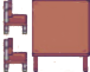
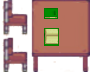
Add controls button in start menu and more decorations

Changed region(s): [[0.4889, 0.3889, 0.6667, 0.6389], [0.4889, 0.1111, 0.6444, 0.2778]]

diff --git a/t9am-Green/menu.cpp b/t9am-Green/menu.cpp
@@ -2,7 +2,8 @@
 
 Menu::Menu() {
 	playButton = { (float)GetScreenWidth() / 2 - 75,(float)GetScreenHeight() / 2 - 25, 150.f, 50.f };
-	exitButton = { (float)GetScreenWidth() / 2 - 75,(float)GetScreenHeight() / 2 + 2 * playButton.height - 25, 150.f, 50.f };
+	mainMenuControlsButton = { (float)GetScreenWidth() / 2 - 125, (float)GetScreenHeight() / 2 + 2 * playButton.height - 25, 250.f, 50.f };
+	exitButton = { (float)GetScreenWidth() / 2 - 75, (float)GetScreenHeight() / 2 + 4 * playButton.height - 25, 150.f, 50.f };
 	interactionMenu = { 100.f, 100.f, 700.f, 300.f };
 	submitButton = { (float)textBox.textbox.x + 25, (float)textBox.textbox.y + 70, 175.f, 60.f };
 	interactionCloseButton = { interactionMenu.x + interactionMenu.width - 150, interactionMenu.y + interactionMenu.height - 60, 140, 50 };
@@ -19,12 +20,14 @@ Menu::Menu() {
 
 // Draws the start menu
 void Menu::Draw() {
-	DrawText("Count the Teacher", (float)GetScreenWidth() / 2 - 150, 40.f, 30, WHITE);
+	DrawText("Count the Teacher", 40, 40, 85, WHITE);
 	ClearBackground(DARKGREEN);
 	DrawRectangleRec(playButton, GREEN);
-	DrawTextEx(GetFontDefault(), "Play", { playButton.x + MeasureTextEx(GetFontDefault(), "Play", 20, 5).x / 2, playButton.y }, 45, 5, WHITE);
+	DrawTextEx(GetFontDefault(), "Play", { playButton.x + MeasureTextEx(GetFontDefault(), "Play", 20, 5).x / 2, playButton.y + 5 }, 45, 5, WHITE);
+	DrawRectangleRec(mainMenuControlsButton, ORANGE);
+	DrawTextEx(GetFontDefault(), "Controls", { mainMenuControlsButton.x + MeasureTextEx(GetFontDefault(), "Controls", 30, 5).x / 4 - 10, mainMenuControlsButton.y + 5 }, 45, 5, WHITE);
 	DrawRectangleRec(exitButton, RED);
-	DrawTextEx(GetFontDefault(), "Exit", { exitButton.x + MeasureTextEx(GetFontDefault(), "Exit", 30, 5).x / 2, exitButton.y }, 45, 5, WHITE);
+	DrawTextEx(GetFontDefault(), "Exit", { exitButton.x + MeasureTextEx(GetFontDefault(), "Exit", 30, 5).x / 2, exitButton.y + 5 }, 45, 5, WHITE);
 }
 
 // Draws the interaction menu
@@ -35,10 +38,10 @@ void Menu::DrawInteractionMenu() {
 	textBox.Draw();
 	DrawRectangleRec(submitButton, GREEN);
 	DrawRectangleLinesEx(submitButton, 4, DARKGREEN);
-	DrawText("Check", submitButton.x + 10, submitButton.y + 5, 50, WHITE);
+	DrawText("Check", (int)submitButton.x + 10, (int)submitButton.y + 5, 50, WHITE);
 	DrawRectangleRec(interactionCloseButton, RED);
 	DrawRectangleLinesEx(interactionCloseButton, 3, MAROON);
-	DrawText("Close", interactionCloseButton.x + 10, interactionCloseButton.y + 5, 40, WHITE);
+	DrawText("Close", (int)interactionCloseButton.x + 10, (int)interactionCloseButton.y + 5, 40, WHITE);
 }
 
 // Returns true when we click on the play button
@@ -47,6 +50,11 @@ bool Menu::CheckIfPlayIsClicked() {
 		return 1;
 	else
 		return 0;
+}
+
+bool Menu::CheckIfControlsIsClicked() {
+	if (CheckCollisionPointRec(GetMousePosition(), mainMenuControlsButton) and IsMouseButtonPressed(MOUSE_BUTTON_LEFT))
+		return 1;
 }
 
 // Returns true when we click on the exit button
@@ -118,48 +126,48 @@ bool Menu::CheckIfExitControlsClicked() {
 void Menu::ShowRandomProblem(map<string, string> RandomProblem) {
 	map<string, string>::iterator it = RandomProblem.begin();
 
-	DrawText(it->first.c_str(), textBox.textbox.x - 20, textBox.textbox.y - 50, 30, WHITE);
+	DrawText(it->first.c_str(), (int)textBox.textbox.x - 20, (int)textBox.textbox.y - 50, 30, WHITE);
 }
 
 void Menu::DrawWinWindow() {
 	DrawRectangleRec(gameWinWindow, GREEN);
 	DrawRectangleLinesEx(gameWinWindow, 10, DARKGREEN);
-	DrawText("YOU WON THE GAME!", GetScreenWidth() / 2.f - 165 , 180, 30, WHITE);
+	DrawText("YOU WON THE GAME!", GetScreenWidth() / 2 - 165 , 180, 30, WHITE);
 	DrawRectangleRec(gameCloseButton, RED);
-	DrawText("Close", (float)gameCloseButton.x + 40, (float)gameCloseButton.y + 8, 40, WHITE);
+	DrawText("Close", (int)gameCloseButton.x + 40, (int)gameCloseButton.y + 8, 40, WHITE);
 }
 
 void Menu::DrawGameOverMenu() {
 	DrawRectangleRec(gameOverMenu, DARKGRAY);
-	DrawText("GAME OVER", GetScreenWidth() / 2.f - 140, 100, 50, RED);
+	DrawText("GAME OVER", GetScreenWidth() / 2 - 140, 100, 50, RED);
 	DrawRectangleLinesEx(gameOverMenu, 4, BLACK);
 	DrawRectangleRec(gameCloseButton, RED);
-	DrawText("Close", (float)gameCloseButton.x + 40, (float)gameCloseButton.y + 8, 40, WHITE);
+	DrawText("Close", (int)gameCloseButton.x + 40, (int)gameCloseButton.y + 8, 40, WHITE);
 }
 //Draws paused menu
 void Menu::DrawPauseMenu() {
 	DrawRectangleRec(pauseMenu, GRAY);
 	DrawRectangleLinesEx(pauseMenu, 4, BLACK);
-	DrawText("Paused", GetScreenWidth() / 2.f - 80, 120, 50, WHITE);
+	DrawText("Paused", GetScreenWidth() / 2 - 80, 120, 50, WHITE);
 	DrawRectangleRec(resumeButton, LIGHTGRAY);
 	DrawRectangleLinesEx(resumeButton, 3, DARKGRAY);
-	DrawText("Resume", resumeButton.x + 7, resumeButton.y + 8, 40, BLACK);
+	DrawText("Resume", (int)resumeButton.x + 7, (int)resumeButton.y + 8, 40, BLACK);
 	DrawRectangleRec(controlsButton, LIGHTGRAY);
 	DrawRectangleLinesEx(controlsButton, 3, DARKGRAY);
-	DrawText("Controls", controlsButton.x + 10, controlsButton.y + 8, 40, BLACK);
+	DrawText("Controls", (int)controlsButton.x + 10, (int)controlsButton.y + 8, 40, BLACK);
 	DrawRectangleRec(exitGamePauseButton, LIGHTGRAY);
 	DrawRectangleLinesEx(exitGamePauseButton, 3, DARKGRAY);
-	DrawText("Exit Game", exitGamePauseButton.x + 10, exitGamePauseButton.y + 8, 40, BLACK);
+	DrawText("Exit Game", (int)exitGamePauseButton.x + 10, (int)exitGamePauseButton.y + 8, 40, BLACK);
 }
 
 void Menu::DrawControls() {
 	DrawRectangleRec(controlsMenu, GRAY);
 	DrawRectangleLinesEx(controlsMenu, 4, BLACK);
-	DrawText("Controls", controlsMenu.width / 2, controlsMenu.y + 10, 40, WHITE);
-	DrawText("WASD - Move", controlsMenu.x + 10, controlsMenu.y + 70, 40, BLACK);
-	DrawText("E - Interact", controlsMenu.x + 10, controlsMenu.y + 110, 40, BLACK);
-	DrawText("Q - Pause", controlsMenu.x + 10, controlsMenu.y + 150, 40, BLACK);
-	DrawText("Enter - Check Question", controlsMenu.x + 10, controlsMenu.y + 190, 40, BLACK);
+	DrawText("Controls", (int)controlsMenu.width / 2, (int)controlsMenu.y + 10, 40, WHITE);
+	DrawText("WASD - Move", (int)controlsMenu.x + 10, (int)controlsMenu.y + 70, 40, BLACK);
+	DrawText("E - Interact", (int)controlsMenu.x + 10, (int)controlsMenu.y + 110, 40, BLACK);
+	DrawText("Q - Pause", (int)controlsMenu.x + 10, (int)controlsMenu.y + 150, 40, BLACK);
+	DrawText("Enter - Check Question", (int)controlsMenu.x + 10, (int)controlsMenu.y + 190, 40, BLACK);
 	DrawRectangleRec(exitControlsMenuButton, RED);
-	DrawText("Back", exitControlsMenuButton.x + 10, exitControlsMenuButton.y + 8, 40, BLACK);
+	DrawText("Back", (int)exitControlsMenuButton.x + 10, (int)exitControlsMenuButton.y + 8, 40, BLACK);
 }

diff --git a/t9am-Green/character.cpp b/t9am-Green/character.cpp
@@ -13,7 +13,6 @@ Character::Character() {
 	frame = 0;
 	// The character's initial health
 	health = 3;
-
 }
 
 // Draws the updated position of the character
@@ -35,17 +34,15 @@ void Character::Draw() {
 	}
 }
 // These x and y variables will be equal to the x and y coordinates of the hitbox of the character after one step.
-void Character::Update(float x, float y) { 
-	position.x = x;						   
-	position.y = y;						   
-										   
+void Character::Update(float NewX, float NewY) { 
+	position.x = NewX;
+	position.y = NewY;			   
 
 //Moving right
 	if (IsKeyDown(KEY_D)) { 
 		frame++;
 		source = { 0.f, 0.f, (float)movingRight.width / 4.f, (float)movingRight.height };
 		source.x = (float)frame * source.width;
-		position.x;
 		WaitTime(updateTime);
 	}
 	// Moving left
@@ -53,7 +50,6 @@ void Character::Update(float x, float y) {
 		frame++;
 		source = { 0.f, 0.f, (float)movingLeft.width / 4.f, (float)movingLeft.height };
 		source.x = (float)frame * source.width;
-		position.x;
 		WaitTime(updateTime);
 	}
 	// Moving up
@@ -61,7 +57,6 @@ void Character::Update(float x, float y) {
 		frame++;
 		source = { 0.f, 0.f, (float)movingUp.width / 4.f, (float)movingUp.height };
 		source.x = (float)frame * source.width;
-		position.y;
 		WaitTime(updateTime);
 	}
 	// Moving down
@@ -69,7 +64,6 @@ void Character::Update(float x, float y) {
 		frame++;
 		source = { 0.f, 0.f, (float)movingDown.width / 4.f, (float)movingDown.height };
 		source.x = (float)frame * source.width;
-		position.y;
 		WaitTime(updateTime);
 	}
 	// Not moving

diff --git a/t9am-Green/MathProblems.cpp b/t9am-Green/MathProblems.cpp
@@ -10,13 +10,10 @@ MathProblems::MathProblems() {
 	Level1["54 + 32 = ?"] = "86";
 	Level1["37 + 82 = ?"] = "119";
 	Level1["34 + 56 = ?"] = "90";
-	Level1["78 + 29 = ?"] = "107";
 	Level1["123 + 87 = ?"] = "210";
-	Level1["245 + 376 = ?"] = "621";
 	Level1["59 + 84 = ?"] = "143";
 	Level1["432 + 218 = ?"] = "650";
 	Level1["67 + 45 = ?"] = "112";
-	Level1["891 + 234 = ?"] = "1125";
 	Level1["308 + 492 = ?"] = "800";
 	Level1["150 + 275 = ?"] = "425";
 
@@ -28,16 +25,12 @@ MathProblems::MathProblems() {
 	Level2["97 - 78 = ?"] = "19";
 	Level2["143 - 57 = ?"] = "86";
 	Level2["120 - 77 = ?"] = "43";
-	Level2["136 - 29 = ?"] = "107";
 	Level2["78 - 34 = ?"] = "44";
 	Level2["125 - 87 = ?"] = "38";
 	Level2["456 - 123 = ?"] = "333";
-	Level2["592 - 318 = ?"] = "247";
 	Level2["84 - 59 = ?"] = "25";
 	Level2["243 - 76 = ?"] = "167";
 	Level2["900 - 456 = ?"] = "444";
-	Level2["731 - 412 = ?"] = "319";
-	Level2["654 - 298 = ?"] = "356";
 	Level2["500 - 375 = ?"] = "125";
 
 

diff --git a/t9am-Green/game.cpp b/t9am-Green/game.cpp
@@ -18,13 +18,17 @@ void Game::Update() {
 		if (menu.CheckIfControlsClicked()) {
 			ControlsMenuOpened = true;
 		}
-			if (menu.CheckIfExitControlsClicked())
-				ControlsMenuOpened = false;
+		if (menu.CheckIfExitControlsClicked())
+			ControlsMenuOpened = false;
 	}
 
 	if (!MenuClosed) {
 		MenuClosed = menu.CheckIfPlayIsClicked();
 		exitGame = menu.CheckIfExitIsClicked();
+		if (menu.CheckIfControlsIsClicked())
+			ControlsMenuOpened = true;
+		if (menu.CheckIfExitControlsClicked())
+			ControlsMenuOpened = false;
 	}
 	else if (!PauseMenuOpened and !gameOverMenuOpened){
 			Rectangle CharacterRec = character.getTextureRect();

diff --git a/t9am-Green/menu.h b/t9am-Green/menu.h
@@ -3,7 +3,6 @@
 #include "textBox.h"
 #include <map>
 #include <string>
-#include "time.h"
 using namespace std;
 
 // Class that will draw and update all the menus in the game
@@ -20,6 +19,7 @@ public:
 	void DrawPauseMenu();
 	void DrawControls();
 	bool CheckIfPlayIsClicked();
+	bool CheckIfControlsIsClicked();
 	bool CheckIfExitIsClicked();
 	bool CheckIfInteractionClosed();
 	bool IsCheckClicked();
@@ -30,6 +30,7 @@ public:
 	bool CheckIfExitControlsClicked();
 private:
 	Rectangle playButton;
+	Rectangle mainMenuControlsButton;
 	Rectangle exitButton;
 	Rectangle submitButton;
 	Rectangle interactionCloseButton;

diff --git a/t9am-Green/map.cpp b/t9am-Green/map.cpp
@@ -15,6 +15,7 @@ Map::Map() {
 	teacherDesk = LoadTexture("Graphics/TeacherDesk.png");
 	eButton1 = LoadTexture("Graphics/E-button1.png");
 	sofaTexture = LoadTexture("Graphics/sofa.png");
+	board = LoadTexture("Graphics/board.png");
 	paintingsTextures = {
 		LoadTexture("Graphics/painting1.png"),
 		LoadTexture("Graphics/painting2.png"),
@@ -89,6 +90,7 @@ void Map::Draw() {
 		}
 		teacher.Draw();
 		DrawTexture(teacherDesk, (int)teacherDeskHitbox.x, (int)teacherDeskHitbox.y, WHITE);
+		DrawTexture(board, (int)teacherDeskHitbox.x - board.width - 10, 60, WHITE);
 		teacher.drawEButton();
 	}
 }

diff --git a/t9am-Green/character.h b/t9am-Green/character.h
@@ -8,12 +8,12 @@ class Character {
 public:
 	Character();
 	void Draw();
-	void Update(float x, float y);
+	void Update(float NewX, float NewY);
 	Rectangle getTextureRect();
 	// Returns the hitbox of the character after one step
 	Rectangle getCharacterNextRect();
 	void drawHealth();
-	Vector2  position;
+	Vector2 position;
 	Texture2D heartTexture;
 	int health;
 private:

diff --git a/t9am-Green/map.h b/t9am-Green/map.h
@@ -48,6 +48,7 @@ public:
 	Texture2D eButton1;
 	Texture2D eButton2;
 	Texture2D sofaTexture;
+	Texture2D board;
 	vector<Texture2D> paintingsTextures;
 	// The hitbox of the classroom door
 	Rectangle doorInRoomHitbox;
